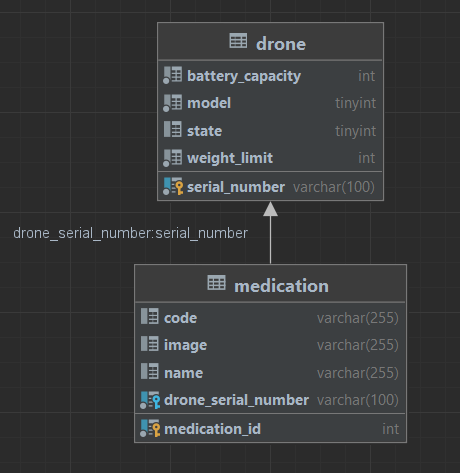
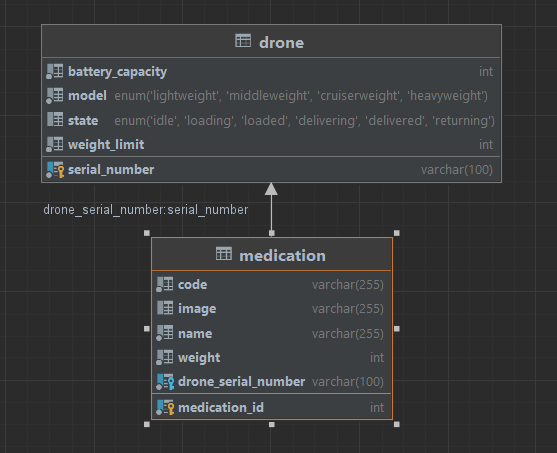
Refactor : Modify Entity Constrains

Changed region(s): [[0.0304, 0.0618, 0.913, 0.9581], [0.3348, 0.0309, 0.8522, 0.1236], [0.5783, 0.4945, 0.6087, 0.5254]]

diff --git a/Backend/SpringBoot/dji-drone-rest/src/main/java/com/task/djidronerest/entity/Drone.java b/Backend/SpringBoot/dji-drone-rest/src/main/java/com/task/djidronerest/entity/Drone.java
@@ -3,6 +3,8 @@ package com.task.djidronerest.entity;
 
 import com.fasterxml.jackson.annotation.JsonManagedReference;
 import jakarta.persistence.*;
+import jakarta.validation.constraints.Max;
+import jakarta.validation.constraints.Size;
 
 import java.util.ArrayList;
 import java.util.List;
@@ -12,14 +14,20 @@ import java.util.List;
 public class Drone {
     @Id
     @Column(name = "serial_number", nullable = false, length = 100)
+    @Size(max = 100)
     private String serialNumber;
     @Column(name = "model", nullable = false)
+    @Enumerated(EnumType.STRING)
     private Model model;
+
     @Column(name = "weight_limit", nullable = false)
+    @Max(value = 500, message = "Weight limit must be less than 500")
     private Integer weightLimit;
     @Column(name = "battery_capacity", nullable = false)
+    @Max(value = 100, message = "Battery capacity must be less than 100")
     private Integer batteryCapacity;
     @Column(name = "state")
+    @Enumerated(EnumType.STRING)
     private State state;
 
     @OneToMany(mappedBy = "drone", cascade = CascadeType.ALL, fetch = FetchType.EAGER)

diff --git a/Backend/SpringBoot/dji-drone-rest/src/main/java/com/task/djidronerest/entity/Medication.java b/Backend/SpringBoot/dji-drone-rest/src/main/java/com/task/djidronerest/entity/Medication.java
@@ -2,6 +2,8 @@ package com.task.djidronerest.entity;
 
 import com.fasterxml.jackson.annotation.JsonBackReference;
 import jakarta.persistence.*;
+import jakarta.validation.constraints.NotBlank;
+import jakarta.validation.constraints.Pattern;
 
 @Entity
 @Table(name = "medication")
@@ -10,13 +12,18 @@ public class Medication {
     @GeneratedValue(strategy = GenerationType.IDENTITY)
     @Column(name = "medication_id")
     private Integer id;
-    @Column(name = "name")
+    @NotBlank
+    @Pattern(regexp = "^[a-zA-Z0-9_-]+$", message = "Name must contain only letters, numbers, '-', and '_'")
+    @Column(name = "name", nullable = false)
     private String name;
-    @Column(name = "code")
+
+    @Column(name = "weight", nullable = false)
+    private Integer weight;
+    @NotBlank
+    @Pattern(regexp = "^[A-Z0-9_]+$", message = "Code must contain only upper case letters, numbers, and '_'")
+    @Column(name = "code", nullable = false)
     private String code;
 
-    @Column(name = "weight")
-    private Integer weight;
     @Column(name = "image")
     private String image;
 

diff --git a/Backend/SpringBoot/dji-drone-rest/src/main/java/com/task/djidronerest/DjiDroneRestApplication.java b/Backend/SpringBoot/dji-drone-rest/src/main/java/com/task/djidronerest/DjiDroneRestApplication.java
@@ -7,17 +7,19 @@ import org.springframework.scheduling.annotation.EnableScheduling;
 
 @SpringBootApplication
 @OpenAPIDefinition(
-		info = @io.swagger.v3.oas.annotations.info.Info(
-				title = "DJI Drone REST API",
-				version = "1.0",
-				description = "DJI Drone REST API"
-		)
+        info = @io.swagger.v3.oas.annotations.info.Info(
+                title = "DJI Drone REST API",
+                version = "1.0",
+                description = "DJI Drone REST API"
+        )
 )
+
+// Exception Handling
 @EnableScheduling
 public class DjiDroneRestApplication {
 
-	public static void main(String[] args) {
-		SpringApplication.run(DjiDroneRestApplication.class, args);
-	}
+    public static void main(String[] args) {
+        SpringApplication.run(DjiDroneRestApplication.class, args);
+    }
 
 }

diff --git a/Backend/SpringBoot/dji-drone-rest/src/main/java/com/task/djidronerest/dao/DroneDaoImpl.java b/Backend/SpringBoot/dji-drone-rest/src/main/java/com/task/djidronerest/dao/DroneDaoImpl.java
@@ -44,7 +44,7 @@ public class DroneDaoImpl implements DroneDao {
 
     @Override
     public List<Drone> findAvailable() {
-        List<Drone> drones = entityManager.createQuery("FROM Drone WHERE state = 0", Drone.class).getResultList();
+        List<Drone> drones = entityManager.createQuery("FROM Drone WHERE state = 'IDLE'", Drone.class).getResultList();
         return drones;
     }
 

diff --git a/Backend/SpringBoot/dji-drone-rest/src/main/java/com/task/djidronerest/rest/MedicationRestController.java b/Backend/SpringBoot/dji-drone-rest/src/main/java/com/task/djidronerest/rest/MedicationRestController.java
@@ -30,7 +30,6 @@ public class MedicationRestController {
             description = "Add a new medication"
     )
     public Medication saveMedication(@RequestBody Medication medication) {
-        System.out.println("MedicationRestController.saveMedication: " + medication);
         return medicationService.saveMedication(medication);
     }
 }

diff --git a/Backend/SpringBoot/dji-drone-rest/README.md b/Backend/SpringBoot/dji-drone-rest/README.md
@@ -31,13 +31,15 @@ git clone https://github.com/AdhamMadkour/dji-drone-rest.git
     * Create a database with preferred name
     * Change the datasource url in application.properties file
     * Change the username and password in application.properties file
-    * Go to the seed.sql file and copy the content and paste it in your database query console and run it
+    * Go to the drone.sql file and copy the content and paste it in your database query console and run it
+    * Go to the medication.sql file and copy the content and paste it in your database query console and run it
     * Now you have the database ready to run the project
 
 ### 3- Run the `DjiDroneRestApplicationTests` class
 
-### 4- Now you can use the API
+### 4- Run the project `DjiDroneRestApplication` class
 
+### 5- Now you can use the API
 
 ## API Documentation
 
@@ -276,7 +278,7 @@ GET /api/dronebattery/{serialNumber}
 }
 ```
 
-## 7. There is also more endpoints you can check swagger documentation
+## 7. There is also more details in the swagger documentation
 
 ```
 http://localhost:8080/swagger-ui/index.html
